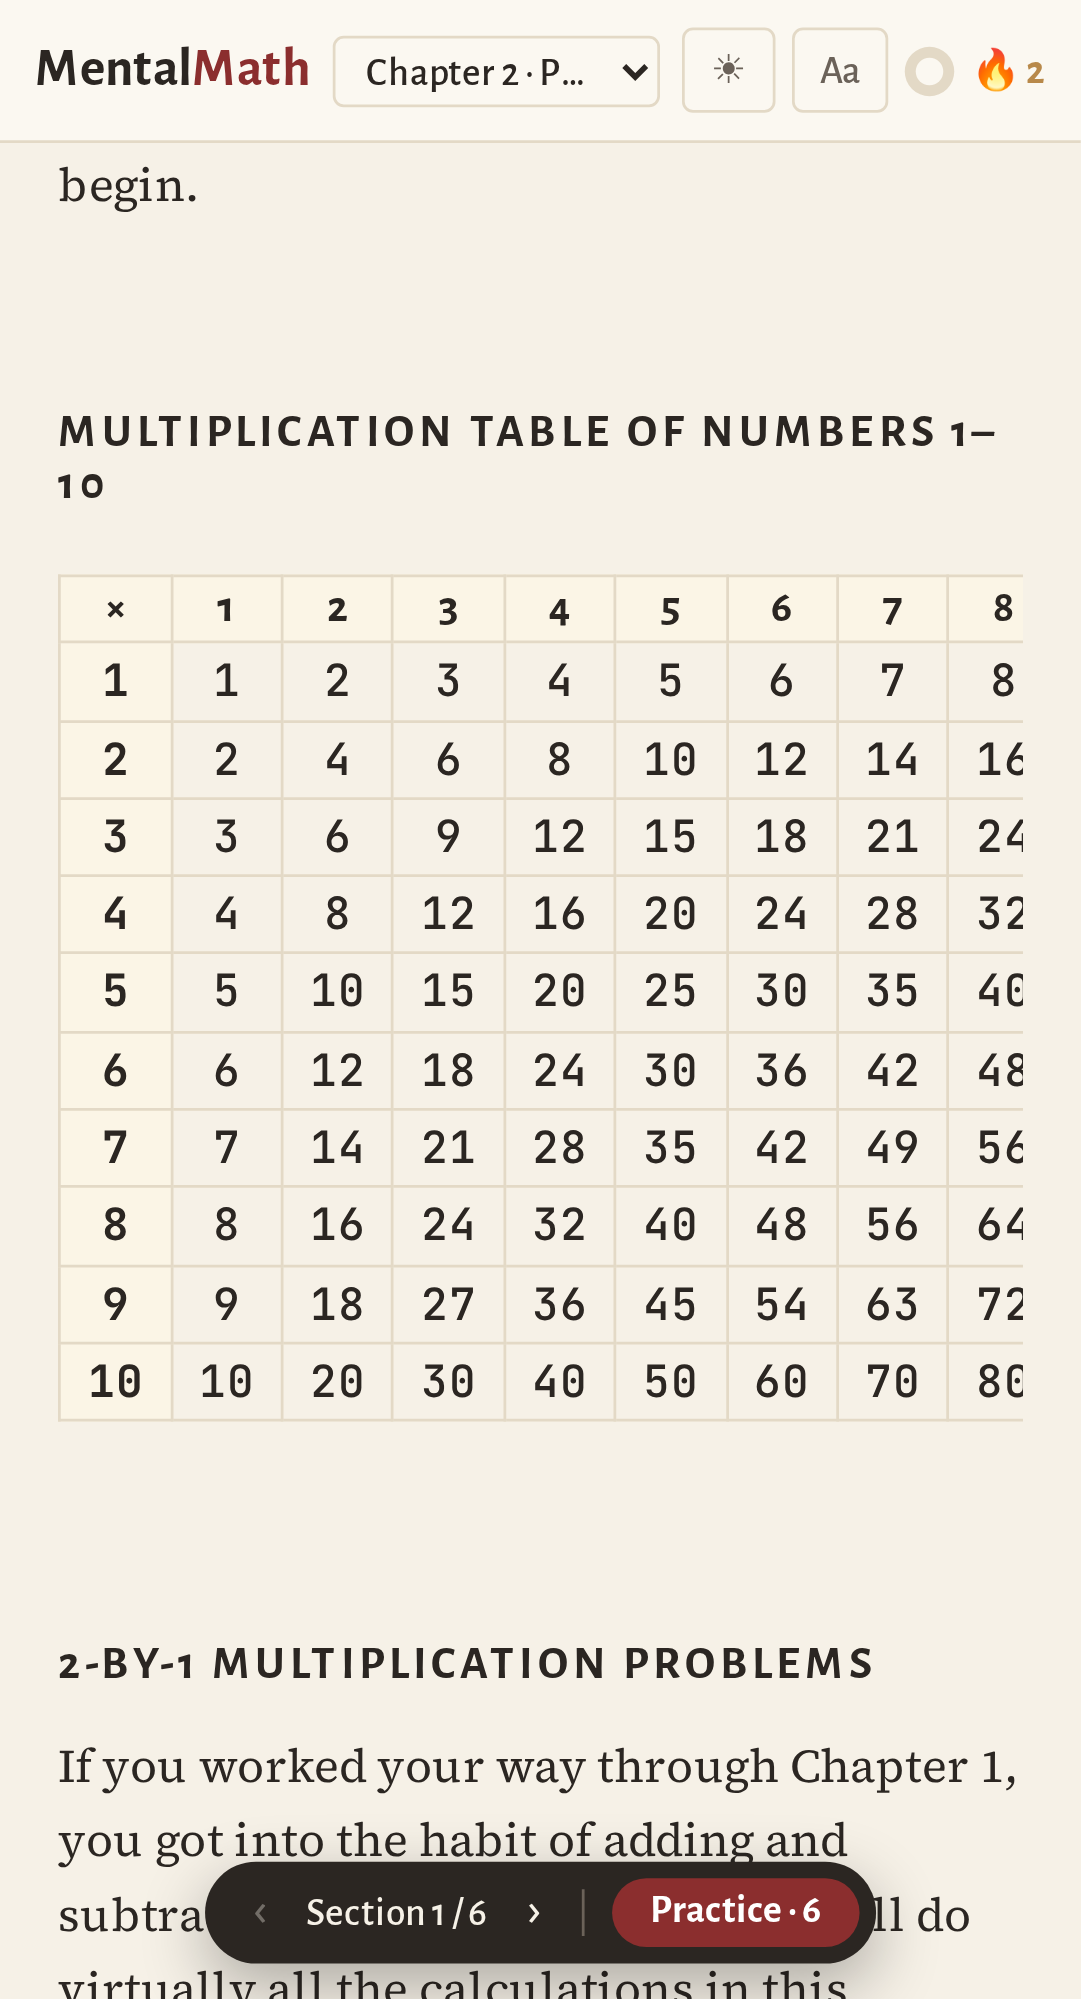
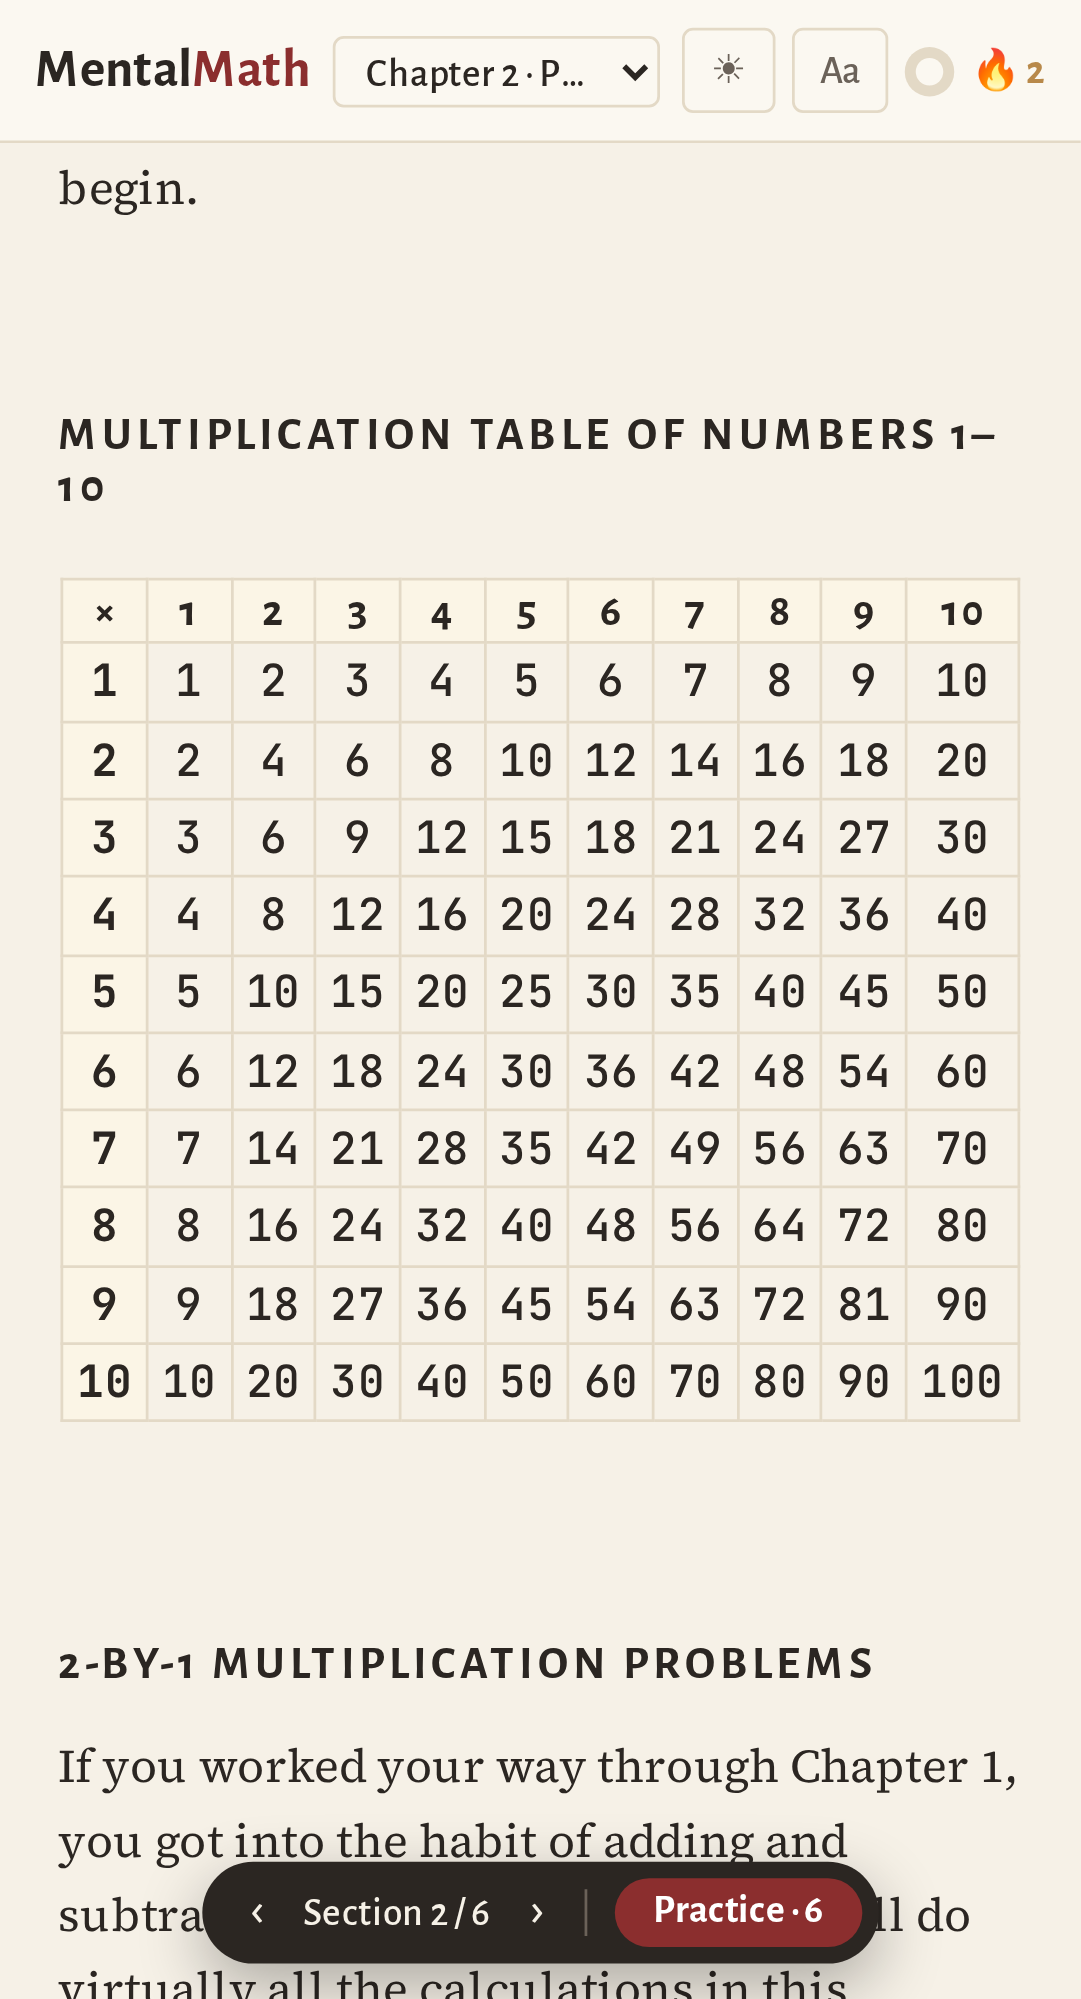
fix(reader): plan 4 review, figure ids, carries and precache
- ch3-f024/f025/f026/f028 were shifted by one slot; a shape guard now
  compares each spec's kind with the image it replaces
- chapter 0 carries restored; breakdown and chain notes are recomputed
- precache manifest no longer doubled (472 entries, 3.3 MB)
- larger ±d labels, phone table padding, sheet inert page, offline spec
  asserts activation

Claude-Session: https://claude.ai/code/session_01EsCYYEREBce4eT5GqngSTv

diff --git a/src/content/figures/__tests__/overrides.test.ts b/src/content/figures/__tests__/overrides.test.ts
@@ -45,7 +45,18 @@ function evalExpr(expr: string): number | null {
   return acc
 }
 
+/** "(40 + 2)" / "(600 − 4)" / "(20 + 9) or (30 − 1)": the first bracketed breakdown must equal the line's value. */
+function checkNote(note: string | undefined, value: string, id: string) {
+  const m = note && /^\((\d[\d,]* (?:[+−] \d[\d,]* ?)+)\)/.exec(note)
+  if (!m) return
+  const got = evalExpr(m[1]!)
+  const want = num(value)
+  if (got !== null && want !== null) expect({ id, note, got }).toEqual({ id, note, got: want })
+}
+
 function checkColumn(lines: ColumnLine[], id: string) {
+  for (const l of lines) checkNote(l.note, l.value, id)
+  lines = lines.filter((l) => !l.carry)
   // labelled equations: "40 × 7 =" value → the label's expression equals the value
   for (const l of lines) {
     if (l.label && l.label.trim().endsWith('=')) {
@@ -92,12 +103,21 @@ function checkColumn(lines: ColumnLine[], id: string) {
   }
 }
 
-function checkChain(steps: string[], id: string) {
+function checkChain(steps: string[], id: string, notes: Array<string | undefined> = []) {
   if (steps.some((s) => s.includes('?'))) return
   const values = steps.map(evalExpr)
   for (const [i, v] of values.entries()) {
     expect({ id, step: steps[i], value: v }).toEqual({ id, step: steps[i], value: values[0] })
   }
+  // the note under each "=" names the amount moved: the change in the leading operand
+  const lead = (s: string) => num(s.trim().split(/\s+/)[0]!)!
+  notes.forEach((note, i) => {
+    const m = note && /(\d[\d,]*)/.exec(note)
+    if (!m || !steps[i + 1]) return
+    const moved = Math.abs(lead(steps[i]!) - lead(steps[i + 1]!))
+    if (moved === 0) return // a "(switch)" step
+    expect({ id, note, moved }).toEqual({ id, note, moved: num(m[1]!) })
+  })
 }
 
 function checkSplit(s: Extract<FigureSpec, { kind: 'split' }>, id: string) {
@@ -153,7 +173,7 @@ function checkSpec(spec: FigureSpec, id: string) {
     case 'column':
       return checkColumn(spec.lines, id)
     case 'chain':
-      return checkChain(spec.steps, id)
+      return checkChain(spec.steps, id, spec.notes ?? [])
     case 'split':
       return checkSplit(spec, id)
     case 'eleven': {
@@ -175,6 +195,36 @@ function checkSpec(spec: FigureSpec, id: string) {
 describe('figure overrides', () => {
   it('reproduce the arithmetic printed in the book', () => {
     for (const [id, spec] of Object.entries(overrides)) checkSpec(spec, id)
+  })
+
+  // A correct spec under the wrong id passes every arithmetic check; the image's shape does not.
+  it('have a shape compatible with the image they replace', () => {
+    const dims = new Map<string, { width: number; height: number }>()
+    for (const unit of ['0', '1', '2', '3']) {
+      const doc = JSON.parse(
+        readFileSync(path.resolve('src/content/chapters', `${unit}.json`), 'utf8'),
+      ) as {
+        sections: Array<{
+          blocks: Array<{ type: string; id?: string; width?: number; height?: number }>
+        }>
+      }
+      for (const sec of doc.sections)
+        for (const b of sec.blocks)
+          if (b.type === 'figure' && b.id) dims.set(b.id, { width: b.width!, height: b.height! })
+    }
+    for (const [id, spec] of Object.entries(overrides)) {
+      const d = dims.get(id)!
+      const lines = spec.kind === 'column' ? spec.lines.filter((l) => !l.carry).length : 0
+      const shape = { id, kind: spec.kind, ...d }
+      if (spec.kind === 'row')
+        expect(shape.width, JSON.stringify(shape)).toBeGreaterThanOrEqual(200)
+      if (spec.kind === 'column' && lines <= 2)
+        expect(shape.height, JSON.stringify(shape)).toBeLessThanOrEqual(80)
+      if (spec.kind === 'column' && lines >= 4)
+        expect(shape.height, JSON.stringify(shape)).toBeGreaterThanOrEqual(100)
+      if ((spec.kind === 'split' && spec.result) || spec.kind === 'chain')
+        expect(shape.width, JSON.stringify(shape)).toBeGreaterThanOrEqual(200)
+    }
   })
 
   it('only name figures that exist in the extracted book', () => {
@@ -199,9 +249,14 @@ describe('recomputation', () => {
       checkColumn([{ value: '47' }, { op: '+', value: '32', rule: true }, { value: '78' }], 'x'),
     ).toThrow()
   })
-  it('rejects a wrong labelled product and a wrong chain', () => {
+  it('rejects a wrong labelled product, a wrong chain, a wrong breakdown note and a wrong chain note', () => {
     expect(() => checkColumn([{ label: '40 × 7 =', value: '270' }], 'x')).toThrow()
     expect(() => checkChain(['47 + 32', '77 + 3', '79'], 'x')).toThrow()
+    expect(() =>
+      checkColumn([{ value: '47' }, { op: '+', value: '32', rule: true, note: '(30 + 3)' }], 'x'),
+    ).toThrow()
+    expect(() => checkChain(['538 + 327', '838 + 27', '865'], 'x', ['+ 30', '+ 27'])).toThrow()
+    expect(() => checkChain(['538 + 327', '838 + 27', '865'], 'x', ['+ 300', '+ 27'])).not.toThrow()
   })
   it('rejects a wrong squaring diagram', () => {
     expect(() =>

diff --git a/src/reader/FigureLayout.vue b/src/reader/FigureLayout.vue
@@ -5,16 +5,16 @@ defineProps<{ spec: FigureSpec }>()
 
 <template>
   <!-- column: label | op | value | note -->
-  <div v-if="spec.kind === 'column'" class="fl column" role="math">
+  <div v-if="spec.kind === 'column'" class="fl column">
     <template v-for="(line, i) in spec.lines" :key="i">
       <span class="lbl">{{ line.label ?? '' }}</span>
       <span class="op" :class="{ rule: line.rule }">{{ line.op ?? '' }}</span>
-      <span class="value" :class="{ rule: line.rule }">{{ line.value }}</span>
+      <span class="value" :class="{ rule: line.rule, carry: line.carry }">{{ line.value }}</span>
       <span class="note">{{ line.note ?? '' }}</span>
     </template>
   </div>
 
-  <div v-else-if="spec.kind === 'chain'" class="fl chain" role="math">
+  <div v-else-if="spec.kind === 'chain'" class="fl chain">
     <template v-for="(step, i) in spec.steps" :key="i">
       <span v-if="i === 0" class="step">{{ step }}</span>
       <span v-else class="link">
@@ -44,15 +44,15 @@ defineProps<{ spec: FigureSpec }>()
     </tbody>
   </table>
 
-  <div v-else-if="spec.kind === 'split'" class="fl split" role="math">
+  <div v-else-if="spec.kind === 'split'" class="fl split">
     <span class="base">{{ spec.base }}</span>
     <svg class="fan out" viewBox="0 0 40 40" aria-hidden="true">
       <line x1="2" y1="20" x2="34" y2="6" />
       <polygon points="36,5 32.2,8.8 30.6,5.2" />
       <line x1="2" y1="20" x2="34" y2="34" />
       <polygon points="36,35 32.2,31.2 30.6,34.8" />
-      <text x="17" y="8">{{ spec.upLabel }}</text>
-      <text x="17" y="38">{{ spec.downLabel }}</text>
+      <text x="16" y="9">{{ spec.upLabel }}</text>
+      <text x="16" y="39">{{ spec.downLabel }}</text>
     </svg>
     <span class="branches">
       <span class="branch">{{ spec.up }}</span>
@@ -69,7 +69,7 @@ defineProps<{ spec: FigureSpec }>()
     </template>
   </div>
 
-  <div v-else-if="spec.kind === 'eleven'" class="fl eleven" role="math">
+  <div v-else-if="spec.kind === 'eleven'" class="fl eleven">
     <span class="col">
       <span class="value">{{ spec.n }}</span>
       <span class="value rule">× 11</span>
@@ -133,6 +133,12 @@ small,
 .column .value {
   text-align: right;
   padding-right: 0.1em;
+}
+.column .carry {
+  font-size: 0.7em;
+  line-height: 1;
+  color: var(--muted);
+  white-space: pre;
 }
 .column .rule {
   border-bottom: 0.09em solid currentColor;
@@ -246,8 +252,8 @@ small,
   fill: var(--muted);
   stroke: none;
   font-family: var(--font-sans);
-  font-size: 8.5px;
-  font-weight: 400;
+  font-size: 11px;
+  font-weight: 500;
   text-anchor: middle;
 }
 .split .branches {
@@ -332,6 +338,10 @@ small,
   .split .fan {
     width: 2.2em;
     height: 2.2em;
+  }
+  .table.grid td,
+  .table.grid th {
+    padding: 0.12em 0.3em;
   }
 }
 </style>

diff --git a/src/content/figures/chapter3.ts b/src/content/figures/chapter3.ts
@@ -3,8 +3,9 @@ import { chain, mul, pair, row, split, stack } from './helpers'
 
 /** A multiplication whose last printed line is ruled but has no total under it (the text continues). */
 const open = (spec: FigureSpec): FigureSpec => {
-  if (spec.kind === 'column') spec.lines[spec.lines.length - 1]!.rule = true
-  return spec
+  if (spec.kind !== 'column') return spec
+  const lines = spec.lines.map((l, i) => (i === spec.lines.length - 1 ? { ...l, rule: true } : l))
+  return { kind: 'column', lines }
 }
 const eleven = (n: string, sum: string, result: string): FigureSpec => ({
   kind: 'eleven',
@@ -107,20 +108,20 @@ export const chapter3: FigureOverrides = {
     [['60 × 67 =', '4020'], ['−1 × 67 =', '67', '−'], '3953'],
     true,
   ),
-  'ch3-f024': row(
+  'ch3-f024': pair('46', '×', '42', '= 7 × 6'),
+  'ch3-f025': row(
     [
       mul('57', '24', '(20 + 4)', [['20 × 57 =', '1140'], ['4 × 57 =', '228', '+'], '1368'], true),
       mul('57', '24', '(50 + 7)', [['50 × 24 =', '1200'], ['7 × 24 =', '168', '+'], '1368']),
     ],
     'or',
   ),
-  'ch3-f025': pair('89', '×', '72'),
-  'ch3-f026': mul('73', '49', '(70 + 3)', [
+  'ch3-f026': pair('89', '×', '72'),
+  'ch3-f028': mul('73', '49', '(70 + 3)', [
     ['70 × 49 =', '3430'],
     ['3 × 49 =', '147', '+'],
     '3577',
   ]),
-  'ch3-f028': pair('46', '×', '42', '= 7 × 6'),
   'ch3-f029': mul(
     '73',
     '49',

diff --git a/src/reader/__tests__/ContentBlocks.test.ts b/src/reader/__tests__/ContentBlocks.test.ts
@@ -58,4 +58,25 @@ describe('ExerciseCallout links', () => {
     expect(gen.exists()).toBe(true)
     expect(gen.text()).toBe('Generate')
   })
+
+  it('keeps a typeset worked example ahead of the callout that follows it (ch3-f041)', async () => {
+    const doc = (await import('@/content/chapters/3.json')).default as {
+      sections: Array<{ id: string; blocks: Block[] }>
+    }
+    const sec = doc.sections.find((s) => s.id === 'three-digit-squares')!
+    const i = sec.blocks.findIndex((b) => b.type === 'figure' && b.id === 'ch3-f041')
+    expect(sec.blocks[i + 1]?.type).toBe('exercise')
+    const w = mount(ContentBlocks, {
+      props: {
+        blocks: sec.blocks.slice(i, i + 2),
+        chapterId: '3',
+        sectionId: 'three-digit-squares',
+      },
+      global: { plugins: [router] },
+    })
+    const kids = [...w.element.children]
+    expect(kids[0]?.getAttribute('data-figure')).toBe('ch3-f041')
+    expect(kids[0]?.getAttribute('data-override')).toBe('stack')
+    expect(kids[1]?.getAttribute('data-testid')).toBe('exercise-callout')
+  })
 })

diff --git a/src/content/book-exercises/__tests__/book-exercises.test.ts b/src/content/book-exercises/__tests__/book-exercises.test.ts
@@ -334,7 +334,8 @@ describe('book exercise data', () => {
     const seven = div.find(
       (p) => p.prompt.kind === 'divisible' && p.prompt.by === 7 && p.prompt.n === 5784,
     )
-    if (seven) expect(seven.steps[0]).toContain('57 is not a multiple of 7')
+    expect(seven).toBeDefined()
+    expect(seven!.steps[0]).toContain('57 is not a multiple of 7')
     const fr = allBookSets()
       .flatMap((s) => s.problems)
       .find(
@@ -344,7 +345,8 @@ describe('book exercise data', () => {
           p.prompt.a.den !== p.prompt.b.den &&
           p.prompt.b.den % p.prompt.a.den === 0,
       )
-    if (fr) expect(fr.steps[0]).toMatch(/^\d+\/\d+ = \d+\/\d+$/)
+    expect(fr).toBeDefined()
+    expect(fr!.steps[0]).toMatch(/^\d+\/\d+ = \d+\/\d+$/)
     // chapter 8 follows the printed routes
     const three = allBookSets().find((s) => s.id === 'ch8-3-by-3-multiplication')!.problems
     expect(three[1]!.steps[0]).toBe('596 = 600 − 4')

diff --git a/src/content/figures/chapter0.ts b/src/content/figures/chapter0.ts
@@ -2,9 +2,18 @@ import type { FigureOverrides } from './types'
 
 // Chapter 0, "Quick Tricks: Easy (and Impressive) Calculations".
 export const chapter0: FigureOverrides = {
-  'ch0-f001': { kind: 'column', lines: [{ value: '835', rule: true }, { value: '935' }] },
-  'ch0-f002': { kind: 'column', lines: [{ value: '527', rule: true }, { value: '627' }] },
-  'ch0-f003': { kind: 'column', lines: [{ value: '989', rule: true }, { value: '1089' }] },
+  'ch0-f001': {
+    kind: 'column',
+    lines: [{ value: '1  ', carry: true }, { value: '835', rule: true }, { value: '935' }],
+  },
+  'ch0-f002': {
+    kind: 'column',
+    lines: [{ value: '1  ', carry: true }, { value: '527', rule: true }, { value: '627' }],
+  },
+  'ch0-f003': {
+    kind: 'column',
+    lines: [{ value: '1  ', carry: true }, { value: '989', rule: true }, { value: '1089' }],
+  },
   'ch0-f004': {
     kind: 'column',
     lines: [

diff --git a/src/reader/BottomSheet.vue b/src/reader/BottomSheet.vue
@@ -15,19 +15,26 @@ function onKey(e: KeyboardEvent) {
 watch(
   () => props.open,
   async (open) => {
+    const app = document.getElementById('app')
     if (open) {
       opener = document.activeElement instanceof HTMLElement ? document.activeElement : null
       window.addEventListener('keydown', onKey)
+      app?.setAttribute('inert', '') // the page behind the sheet is out of the tab order while it is open
       await nextTick()
       closeBtn.value?.focus()
     } else {
       window.removeEventListener('keydown', onKey)
+      app?.removeAttribute('inert')
       opener?.focus()
       opener = null
     }
   },
+  { immediate: true },
 )
-onBeforeUnmount(() => window.removeEventListener('keydown', onKey))
+onBeforeUnmount(() => {
+  window.removeEventListener('keydown', onKey)
+  document.getElementById('app')?.removeAttribute('inert')
+})
 </script>
 
 <template>

diff --git a/src/content/figures/chapter2.ts b/src/content/figures/chapter2.ts
@@ -29,7 +29,13 @@ export const chapter2: FigureOverrides = {
   'ch2-f001': timesTable,
   'ch2-f002': pair('42', '×', '7'),
   'ch2-f003': mul('42', '7', '(40 + 2)', [['40 × 7 =', '280'], ['2 × 7 =', '14', '+'], '294']),
-  'ch2-f004': pair('48', '×', '4', '(40 + 8)'),
+  'ch2-f004': {
+    kind: 'column',
+    lines: [
+      { value: '48', note: '(40 + 8)' },
+      { op: '×', value: '4', rule: true },
+    ],
+  },
   'ch2-f005': mul('48', '4', '(40 + 8)', [['40 × 4 =', '160'], ['8 × 4 =', '32', '+'], '192']),
   'ch2-f006': row([
     mul('62', '3', '(60 + 2)', [['60 × 3 =', '180'], ['2 × 3 =', '6', '+'], '186']),

diff --git a/vite.config.ts b/vite.config.ts
@@ -11,14 +11,7 @@ export default defineConfig({
     vueDevTools(),
     VitePWA({
       registerType: 'autoUpdate',
-      // Public-dir files to precache besides the built bundle: every figure image and the icons.
-      includeAssets: [
-        'favicon.svg',
-        'favicon.ico',
-        'book-cover.jpg',
-        'icons/*.png',
-        'book/figures/**/*.jpeg',
-      ],
+      // Everything under public/ (figures, icons) is precached through workbox.globPatterns below.
       manifest: {
         name: 'Mental Math Trainer',
         short_name: 'MentalMath',

diff --git a/src/content/figures/types.ts b/src/content/figures/types.ts
@@ -15,6 +15,8 @@ export interface ColumnLine {
   rule?: boolean
   /** Trailing annotation, e.g. "(40 + 2)" or "= Tuesday". */
   note?: string
+  /** A small carry digit written above the column (`value` holds the digit and its spacing). */
+  carry?: boolean
 }
 
 export type FigureSpec =

diff --git a/e2e/screenshots.spec.ts b/e2e/screenshots.spec.ts
@@ -248,7 +248,7 @@ test.describe('screenshots', () => {
         page,
         info,
         '/read/3/2-by-2-multiplication-problems',
-        'ch3-f024',
+        'ch3-f025',
         'chapter-3-or-routes',
       )
       await figureShot(
